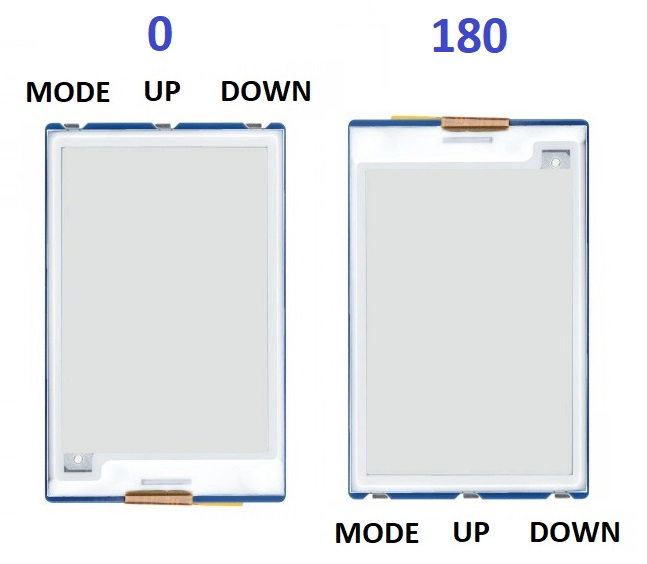
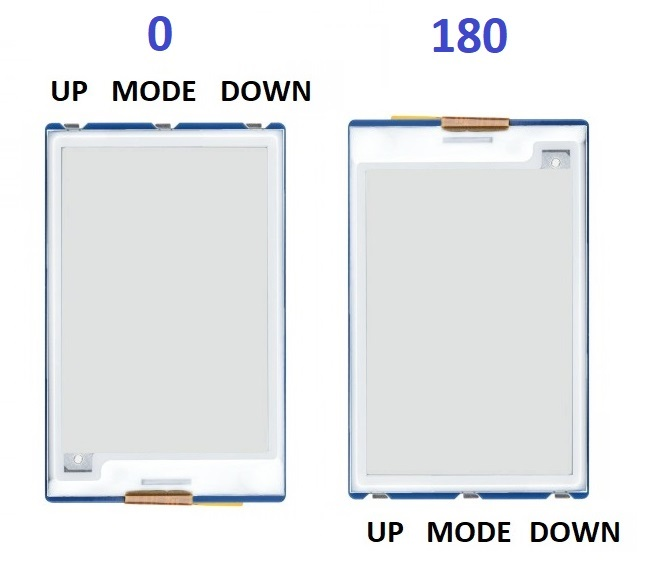
SkyView Pico: remap of 'Mode' button from left to center [skip ci]

Changed region(s): [[0.4946, 0.9043, 0.8037, 0.9645], [0.0309, 0.1206, 0.3091, 0.1809]]

diff --git a/software/firmware/source/SkyView/Platform_RP2040.cpp b/software/firmware/source/SkyView/Platform_RP2040.cpp
@@ -527,10 +527,10 @@ static void RP2040_fini()
 
   sleep_run_from_xosc();
 
-#if SOC_GPIO_PIN_KEY2 != SOC_UNUSED_PIN
-  uint mode_button_pin = settings->rotate == ROTATE_180 ?
-                         SOC_GPIO_PIN_KEY0 : SOC_GPIO_PIN_KEY2;
-  #if SOC_GPIO_PIN_KEY2 == SOC_GPIO_PIN_BUTTON
+#if SOC_GPIO_PIN_KEY1 != SOC_UNUSED_PIN
+  uint mode_button_pin = SOC_GPIO_PIN_KEY1;
+
+  #if SOC_GPIO_PIN_KEY1 == SOC_GPIO_PIN_BUTTON
     sleep_goto_dormant_until_pin(mode_button_pin, 0, HIGH);
   #else
     sleep_goto_dormant_until_pin(mode_button_pin, 0, LOW);
@@ -538,7 +538,7 @@ static void RP2040_fini()
 #else
   datetime_t alarm = {0};
   sleep_goto_sleep_until(&alarm, NULL); /* TBD */
-#endif /* SOC_GPIO_PIN_KEY2 != SOC_UNUSED_PIN */
+#endif /* SOC_GPIO_PIN_KEY1 != SOC_UNUSED_PIN */
 
   // back from dormant state
   rosc_enable();
@@ -1124,10 +1124,10 @@ static void RP2040_TTS(char *message)
 #include <AceButton.h>
 using namespace ace_button;
 
-#if SOC_GPIO_PIN_KEY2 != SOC_UNUSED_PIN
-AceButton button_mode(SOC_GPIO_PIN_KEY2);
-#endif /* SOC_GPIO_PIN_KEY2 != SOC_UNUSED_PIN */
-AceButton button_up  (SOC_GPIO_PIN_KEY1);
+#if SOC_GPIO_PIN_KEY1 != SOC_UNUSED_PIN
+AceButton button_mode(SOC_GPIO_PIN_KEY1);
+#endif /* SOC_GPIO_PIN_KEY1 != SOC_UNUSED_PIN */
+AceButton button_up  (SOC_GPIO_PIN_KEY2);
 AceButton button_down(SOC_GPIO_PIN_KEY0);
 
 // The event handler for the button.
@@ -1136,11 +1136,11 @@ void handleEvent(AceButton* button, uint8_t eventType,
 
 #if 0
   // Print out a message for all events.
-#if SOC_GPIO_PIN_KEY2 != SOC_UNUSED_PIN
+#if SOC_GPIO_PIN_KEY1 != SOC_UNUSED_PIN
   if (button == &button_mode) {
     Serial.print(F("MODE "));
   } else
-#endif /* SOC_GPIO_PIN_KEY2 != SOC_UNUSED_PIN */
+#endif /* SOC_GPIO_PIN_KEY1 != SOC_UNUSED_PIN */
   if (button == &button_up) {
     Serial.print(F("UP   "));
   } else if (button == &button_down) {
@@ -1158,11 +1158,11 @@ void handleEvent(AceButton* button, uint8_t eventType,
       break;
     case AceButton::kEventClicked:
     case AceButton::kEventReleased:
-#if SOC_GPIO_PIN_KEY2 != SOC_UNUSED_PIN
+#if SOC_GPIO_PIN_KEY1 != SOC_UNUSED_PIN
       if (button == &button_mode) {
         EPD_Mode();
       } else
-#endif /* SOC_GPIO_PIN_KEY2 != SOC_UNUSED_PIN */
+#endif /* SOC_GPIO_PIN_KEY1 != SOC_UNUSED_PIN */
       if (button == &button_up) {
         EPD_Up();
       } else if (button == &button_down) {
@@ -1170,26 +1170,26 @@ void handleEvent(AceButton* button, uint8_t eventType,
       }
       break;
     case AceButton::kEventLongPressed:
-#if SOC_GPIO_PIN_KEY2 != SOC_UNUSED_PIN
+#if SOC_GPIO_PIN_KEY1 != SOC_UNUSED_PIN
       if (button == &button_mode) {
 
-        if (digitalRead(SOC_GPIO_PIN_KEY1) == LOW) {
+        if (digitalRead(SOC_GPIO_PIN_KEY2) == LOW) {
           screen_saver = true;
         }
 
         shutdown("NORMAL OFF");
 //        Serial.println(F("This will never be printed."));
       }
-#endif /* SOC_GPIO_PIN_KEY2 != SOC_UNUSED_PIN */
+#endif /* SOC_GPIO_PIN_KEY1 != SOC_UNUSED_PIN */
       break;
   }
 }
 
 /* Callbacks for push button interrupt */
 void onModeButtonEvent() {
-#if SOC_GPIO_PIN_KEY2 != SOC_UNUSED_PIN
+#if SOC_GPIO_PIN_KEY1 != SOC_UNUSED_PIN
   button_mode.check();
-#endif /* SOC_GPIO_PIN_KEY2 != SOC_UNUSED_PIN */
+#endif /* SOC_GPIO_PIN_KEY1 != SOC_UNUSED_PIN */
 }
 
 void onUpButtonEvent() {
@@ -1202,9 +1202,8 @@ void onDownButtonEvent() {
 
 static void RP2040_Button_setup()
 {
-#if SOC_GPIO_PIN_KEY2 != SOC_UNUSED_PIN
-  int mode_button_pin = settings->rotate == ROTATE_180 ?
-                        SOC_GPIO_PIN_KEY0 : SOC_GPIO_PIN_KEY2;
+#if SOC_GPIO_PIN_KEY1 != SOC_UNUSED_PIN
+  int mode_button_pin = SOC_GPIO_PIN_KEY1;
 
   pinMode(mode_button_pin,
           mode_button_pin == SOC_GPIO_PIN_BUTTON ? INPUT : INPUT_PULLUP);
@@ -1225,14 +1224,18 @@ static void RP2040_Button_setup()
   ModeButtonConfig->setLongPressDelay(2000);
 
 //  attachInterrupt(digitalPinToInterrupt(mode_button_pin), onModeButtonEvent, CHANGE );
-#endif /* SOC_GPIO_PIN_KEY2 != SOC_UNUSED_PIN */
+#endif /* SOC_GPIO_PIN_KEY1 != SOC_UNUSED_PIN */
 
-  pinMode(SOC_GPIO_PIN_KEY1, INPUT_PULLUP);
+  pinMode(SOC_GPIO_PIN_KEY0, INPUT_PULLUP);
+  pinMode(SOC_GPIO_PIN_KEY2, INPUT_PULLUP);
 
-  int down_button_pin = settings->rotate == ROTATE_180 ?
-                        SOC_GPIO_PIN_KEY2 : SOC_GPIO_PIN_KEY0;
-  pinMode(down_button_pin, INPUT_PULLUP);
-  button_down.init(down_button_pin, HIGH);
+  if (settings->rotate == ROTATE_180) {
+    button_up.init(SOC_GPIO_PIN_KEY0, HIGH);
+    button_down.init(SOC_GPIO_PIN_KEY2, HIGH);
+  } else {
+    button_up.init(SOC_GPIO_PIN_KEY2, HIGH);
+    button_down.init(SOC_GPIO_PIN_KEY0, HIGH);
+  }
 
   ButtonConfig* UpButtonConfig = button_up.getButtonConfig();
   UpButtonConfig->setEventHandler(handleEvent);
@@ -1252,7 +1255,7 @@ static void RP2040_Button_setup()
 //  DownButtonConfig->setDoubleClickDelay(1000);
   DownButtonConfig->setLongPressDelay(2000);
 
-//  attachInterrupt(digitalPinToInterrupt(SOC_GPIO_PIN_KEY1), onUpButtonEvent,   CHANGE );
+//  attachInterrupt(digitalPinToInterrupt(SOC_GPIO_PIN_KEY2), onUpButtonEvent,   CHANGE );
 //  attachInterrupt(digitalPinToInterrupt(SOC_GPIO_PIN_KEY0), onDownButtonEvent, CHANGE );
 }
 
@@ -1267,9 +1270,9 @@ static bool is_bootsel_click             = false;
 
 static void RP2040_Button_loop()
 {
-#if SOC_GPIO_PIN_KEY2 != SOC_UNUSED_PIN
+#if SOC_GPIO_PIN_KEY1 != SOC_UNUSED_PIN
   button_mode.check();
-#endif /* SOC_GPIO_PIN_KEY2 != SOC_UNUSED_PIN */
+#endif /* SOC_GPIO_PIN_KEY1 != SOC_UNUSED_PIN */
   button_up.check();
   button_down.check();
 
@@ -1308,10 +1311,10 @@ static void RP2040_Button_fini()
 //  detachInterrupt(digitalPinToInterrupt(SOC_GPIO_PIN_KEY1));
 //  detachInterrupt(digitalPinToInterrupt(SOC_GPIO_PIN_KEY2));
 
-#if SOC_GPIO_PIN_KEY2 != SOC_UNUSED_PIN
-  int pin = settings->rotate == ROTATE_180 ? SOC_GPIO_PIN_KEY0 : SOC_GPIO_PIN_KEY2;
+#if SOC_GPIO_PIN_KEY1 != SOC_UNUSED_PIN
+  int pin = SOC_GPIO_PIN_KEY1;
   while (digitalRead(pin) == (pin == SOC_GPIO_PIN_BUTTON ? HIGH : LOW));
-#endif /* SOC_GPIO_PIN_KEY2 != SOC_UNUSED_PIN */
+#endif /* SOC_GPIO_PIN_KEY1 != SOC_UNUSED_PIN */
 
 #if defined(USE_BOOTSEL_BUTTON)
   while (BOOTSEL);

diff --git a/software/firmware/source/SkyView/Platform_ESP32.cpp b/software/firmware/source/SkyView/Platform_ESP32.cpp
@@ -1743,6 +1743,12 @@ void handleEvent(AceButton* button, uint8_t eventType,
           screen_saver = true;
         }
 
+        if ((settings->adapter == ADAPTER_WAVESHARE_PICO_2_7     ||
+             settings->adapter == ADAPTER_WAVESHARE_PICO_2_7_V2) &&
+            digitalRead(SOC_GPIO_PIN_KEY2) == LOW) {
+          screen_saver = true;
+        }
+
         shutdown("NORMAL OFF");
         Serial.println(F("This will never be printed."));
       }
@@ -1776,8 +1782,7 @@ static void ESP32_Button_setup()
 #if defined(CONFIG_IDF_TARGET_ESP32S3)
   if (settings->adapter == ADAPTER_WAVESHARE_PICO_2_7 ||
       settings->adapter == ADAPTER_WAVESHARE_PICO_2_7_V2) {
-    mode_button_pin = settings->rotate == ROTATE_180 ?
-                      SOC_GPIO_PIN_KEY0 : SOC_GPIO_PIN_KEY2;
+    mode_button_pin = SOC_GPIO_PIN_KEY1;
   }
 #endif /* CONFIG_IDF_TARGET_ESP32S3 */
 
@@ -1844,13 +1849,16 @@ static void ESP32_Button_setup()
 #if defined(CONFIG_IDF_TARGET_ESP32S3)
   if (settings->adapter == ADAPTER_WAVESHARE_PICO_2_7 ||
       settings->adapter == ADAPTER_WAVESHARE_PICO_2_7_V2) {
-    pinMode(SOC_GPIO_PIN_KEY1, INPUT_PULLUP);
-    button_up.init(SOC_GPIO_PIN_KEY1, HIGH);
+    pinMode(SOC_GPIO_PIN_KEY0, INPUT_PULLUP);
+    pinMode(SOC_GPIO_PIN_KEY2, INPUT_PULLUP);
 
-    int down_button_pin = settings->rotate == ROTATE_180 ?
-                          SOC_GPIO_PIN_KEY2 : SOC_GPIO_PIN_KEY0;
-    pinMode(down_button_pin, INPUT_PULLUP);
-    button_down.init(down_button_pin, HIGH);
+    if (settings->rotate == ROTATE_180) {
+      button_up.init(SOC_GPIO_PIN_KEY0, HIGH);
+      button_down.init(SOC_GPIO_PIN_KEY2, HIGH);
+    } else {
+      button_up.init(SOC_GPIO_PIN_KEY2, HIGH);
+      button_down.init(SOC_GPIO_PIN_KEY0, HIGH);
+    }
 
     ButtonConfig* UpButtonConfig = button_up.getButtonConfig();
     UpButtonConfig->setEventHandler(handleEvent);
@@ -1896,8 +1904,7 @@ static void ESP32_Button_fini()
 #if defined(CONFIG_IDF_TARGET_ESP32S3)
   if (settings->adapter == ADAPTER_WAVESHARE_PICO_2_7 ||
       settings->adapter == ADAPTER_WAVESHARE_PICO_2_7_V2) {
-    mode_button_pin = settings->rotate == ROTATE_180 ?
-                      SOC_GPIO_PIN_KEY0 : SOC_GPIO_PIN_KEY2;
+    mode_button_pin = SOC_GPIO_PIN_KEY1;
   }
 #endif /* CONFIG_IDF_TARGET_ESP32S3 */
 
